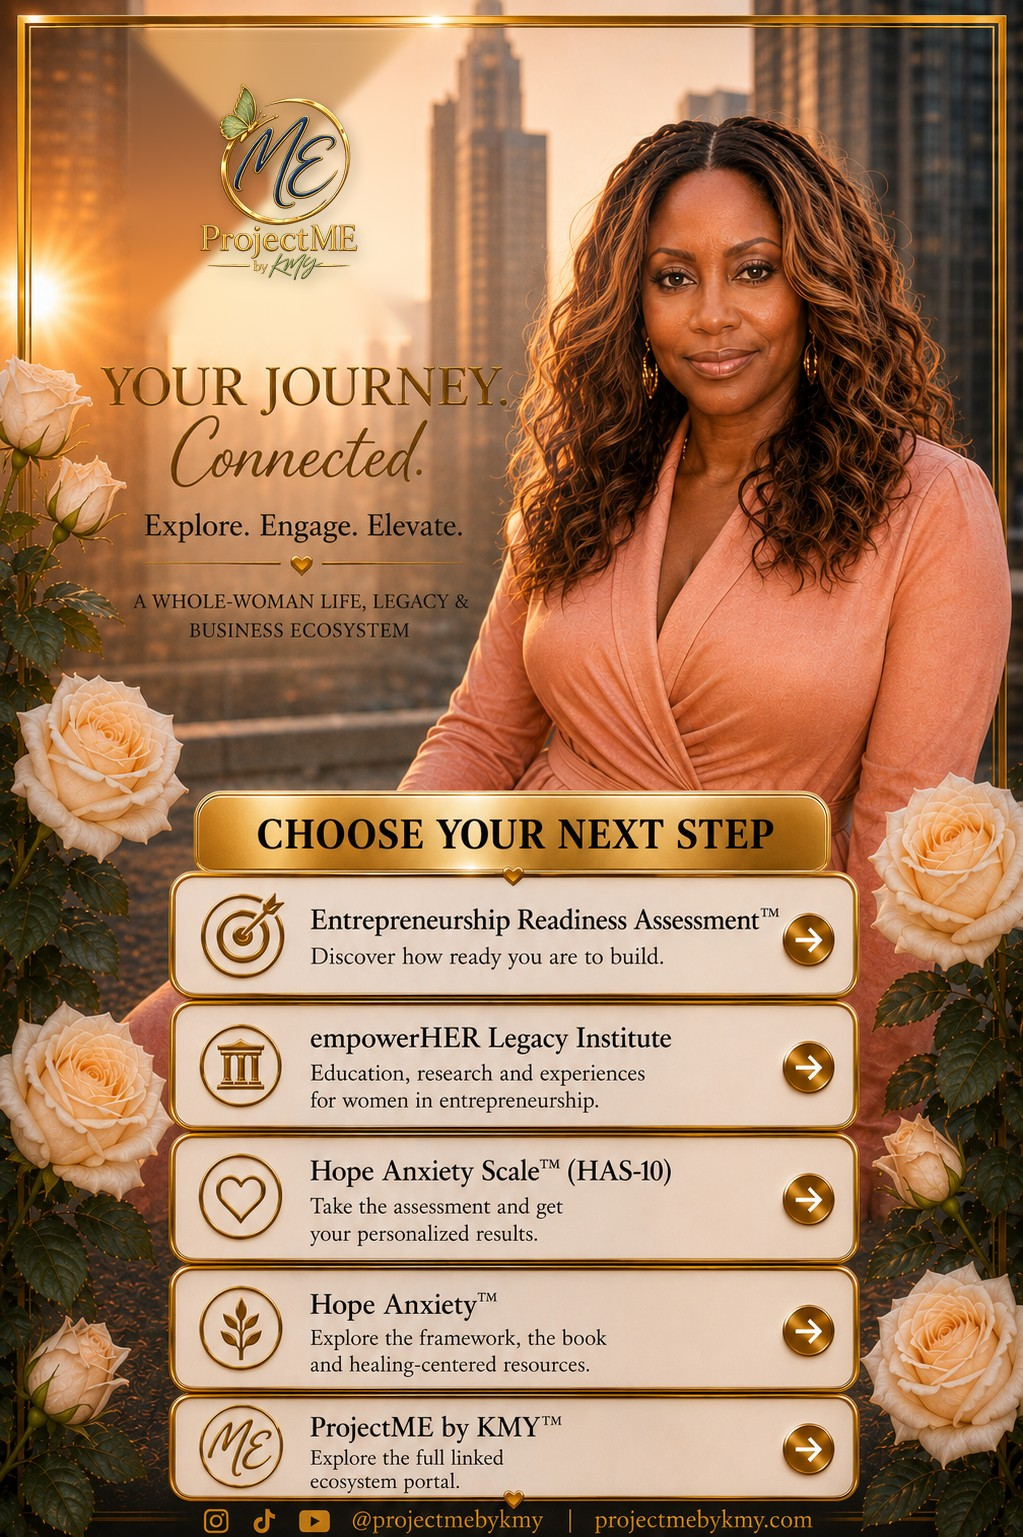
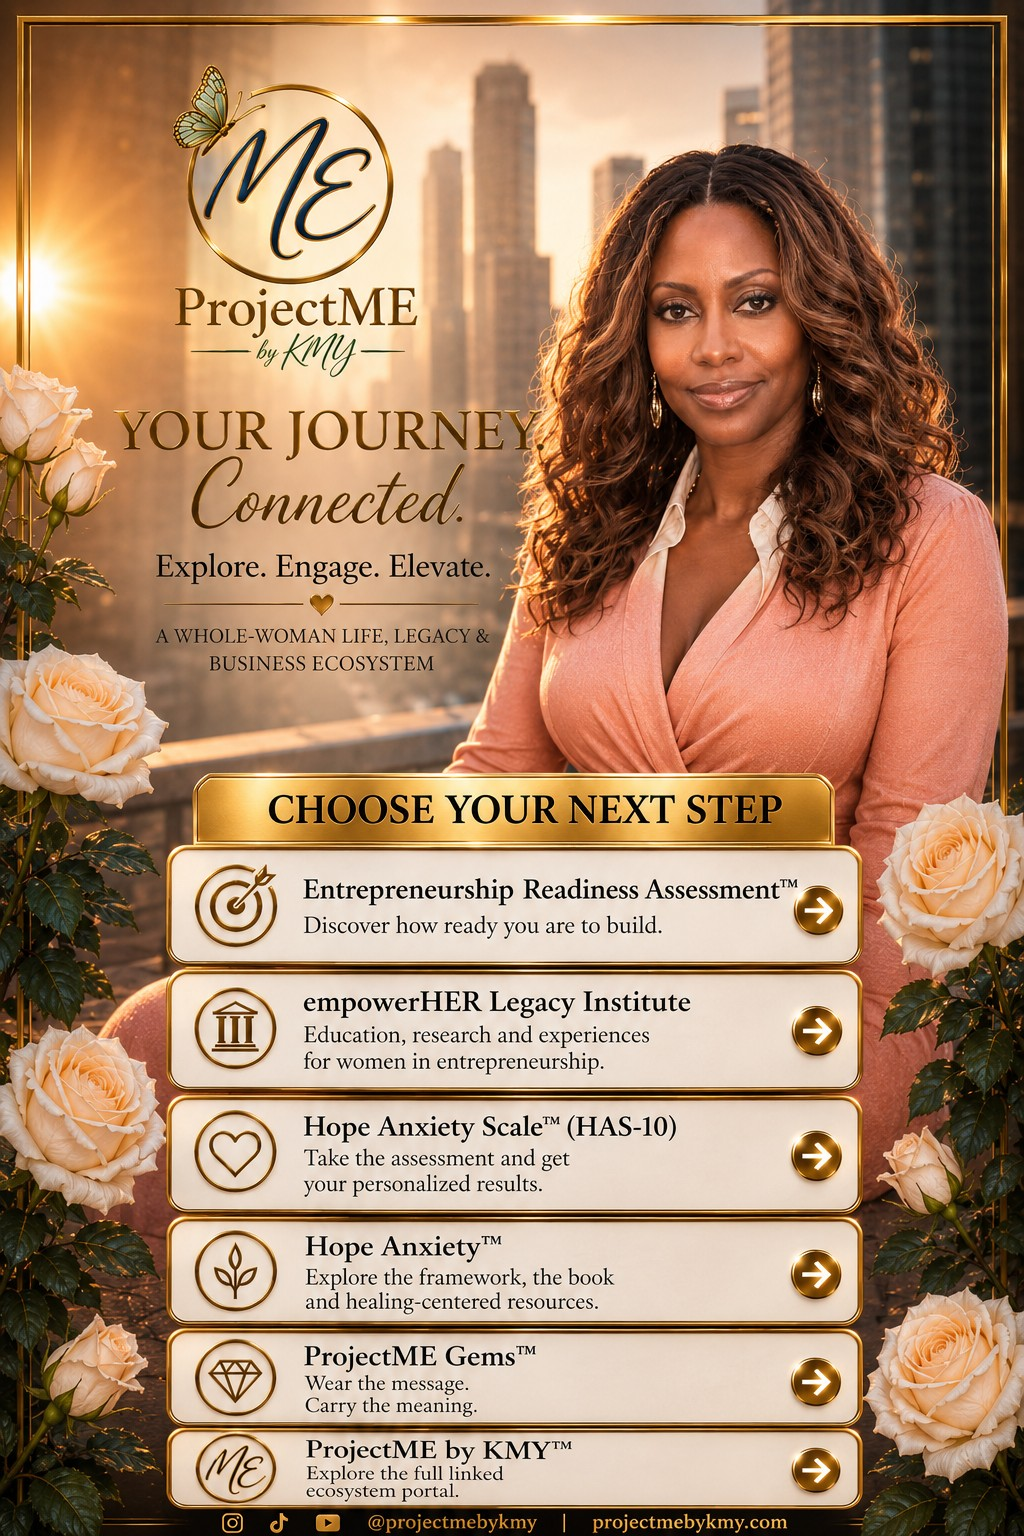
Add ProjectME Gems button; update hero image and all coordinates for 6-button layout

diff --git a/linktree.html b/linktree.html
@@ -33,15 +33,16 @@
     -webkit-tap-highlight-color: rgba(201,168,76,0.25);
   }
   /* debug visualization removed */
-  .btn-era      { top: 56.93%; height: 7.35%;  left: 17.11%; width: 65.49%; }
-  .btn-eliee    { top: 64.73%; height: 8.26%;  left: 17.11%; width: 65.49%; }
-  .btn-has10    { top: 73.65%; height: 8.20%;  left: 17.11%; width: 65.49%; }
-  .btn-hopeanx  { top: 82.50%; height: 8.33%;  left: 17.11%; width: 65.49%; }
-  .btn-projectme{ top: 91.35%; height: 8.20%;  left: 17.11%; width: 65.49%; }
+  .btn-era      { top: 55.66%; height: 6.71%;  left: 17.09%; width: 66.90%; }
+  .btn-eliee    { top: 63.02%; height: 7.94%;  left: 17.09%; width: 66.90%; }
+  .btn-has10    { top: 71.48%; height: 7.42%;  left: 17.09%; width: 66.90%; }
+  .btn-hopeanx  { top: 79.43%; height: 6.38%;  left: 17.09%; width: 66.90%; }
+  .btn-gems     { top: 86.46%; height: 5.99%;  left: 17.09%; width: 66.90%; }
+  .btn-projectme{ top: 92.97%; height: 5.86%;  left: 17.09%; width: 66.90%; }
 
-  .ic-instagram { top: 97.14%; height: 2.41%; left: 18.28%; width: 5.18%; }
-  .ic-tiktok    { top: 97.14%; height: 2.41%; left: 23.75%; width: 4.59%; }
-  .ic-youtube   { top: 97.14%; height: 2.41%; left: 28.35%; width: 4.89%; }
+  .ic-instagram { top: 98.05%; height: 1.82%; left: 20.51%; width: 4.69%; }
+  .ic-tiktok    { top: 98.05%; height: 1.82%; left: 25.88%; width: 4.20%; }
+  .ic-youtube   { top: 98.05%; height: 1.82%; left: 30.76%; width: 4.59%; }
 </style>
 </head>
 <body>
@@ -56,6 +57,8 @@
   <a class="hot btn-has10" href="https://empowerherinstitute.org/hope-anxiety/has-10.html" target="_blank" rel="noopener" aria-label="Hope Anxiety Scale, HAS-10 — Take the assessment and get your personalized results">Hope Anxiety Scale HAS-10</a>
 
   <a class="hot btn-hopeanx" href="https://empowerherinstitute.org/hope-anxiety/index.html" target="_blank" rel="noopener" aria-label="Hope Anxiety — Explore the framework, the book and healing-centered resources">Hope Anxiety</a>
+
+  <a class="hot btn-gems" href="https://gems.projectmebykmy.com" target="_blank" rel="noopener" aria-label="ProjectME Gems — Wear the message, carry the meaning">ProjectME Gems</a>
 
   <a class="hot btn-projectme" href="https://projectmebykmy.com/" target="_blank" rel="noopener" aria-label="ProjectME by KMY — Explore the full linked ecosystem portal">ProjectME by KMY</a>
 
